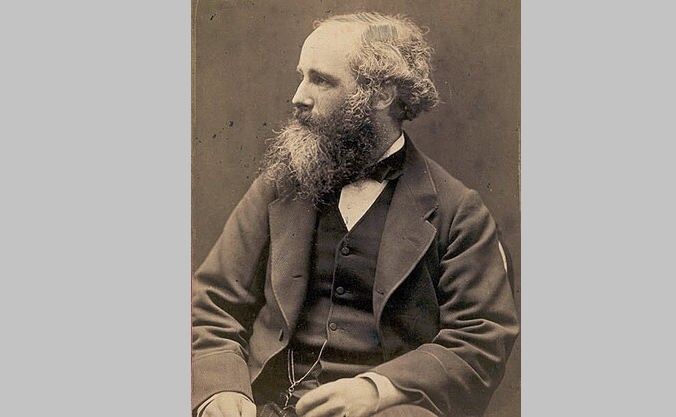
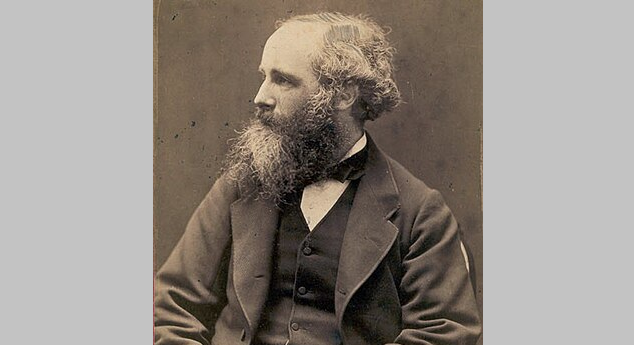
fixed timeline images

Changed region(s): [[0.2397, 0.0, 0.7792, 1.0]]

diff --git a/introduction.html b/introduction.html
@@ -181,9 +181,9 @@ header{position:sticky;top:0;z-index:5;display:flex;justify-content:space-betwee
     width: 100%;
     box-sizing: border-box;
     padding: 18px 5% 20px;
-    border: 1px solid rgba(65, 170, 220, 0.4);
+    border: 1px solid rgba(49, 151, 199, 0.4);
     border-radius: 14px;
-    background: rgba(201, 255, 232, 0.623);
+    background: rgba(205, 229, 236, 0.356);
     overflow: visible;
 }
 
@@ -315,7 +315,7 @@ header{position:sticky;top:0;z-index:5;display:flex;justify-content:space-betwee
 
 /* Card headings */
 .tl-card h3 {
-    font-size: .72rem;
+    font-size: .68rem;
     line-height: 1.15;
     margin: 0;
     color: var(--acc);
@@ -437,7 +437,7 @@ header{position:sticky;top:0;z-index:5;display:flex;justify-content:space-betwee
             <div class="tl-card" style="grid-column: 2;">
                 <h3>Telegraphy</h3>
                 <img src="images/morse_and_faraday.png" alt="Morse and Faraday">
-                <p>S. Morse develops practical electric telegraphy. <br>M. Faraday discovers EM induction.</p>
+                <p>S. Morse develops electric telegraphy. <br>M. Faraday discovers EM induction.</p>
             </div>
         </article>
 
@@ -449,7 +449,7 @@ header{position:sticky;top:0;z-index:5;display:flex;justify-content:space-betwee
             <div class="tl-card" style="grid-column: 3;">
                 <h3>Transatlantic cable, EM Theory</h3>
                 <img src="images/maxwell.png" alt="Maxwell">
-                <p>1st transatlantic telegraph cable completed. <br>J. Maxwell develops EM theory.</p>
+                <p>1st transatlantic telegraph cable. <br>J. Maxwell develops EM theory.</p>
             </div>
         </article>
 
@@ -476,7 +476,7 @@ header{position:sticky;top:0;z-index:5;display:flex;justify-content:space-betwee
                      alt="Fessenden and Armstrong"
                      onerror="this.style.display='none'">
                 <p>
-                    Transcontinental telephone service expands.
+                    Transcontinental telephone.
                      <br>R. Fessended & E. Armstrong develop AM and FM radio.
                 </p>
             </div>
@@ -494,9 +494,8 @@ header{position:sticky;top:0;z-index:5;display:flex;justify-content:space-betwee
                      alt="Nyquist"
                      onerror="this.style.display='none'">
                 <p>
-                    H. Nyquist formulates sampling theory
-                    and  conditions for transmition without
-                    intersymbol interference.
+                    H. Nyquist formulates theory for sampling
+                    & digital communications.
                 </p>
             </div>
         </article>
@@ -548,8 +547,7 @@ header{position:sticky;top:0;z-index:5;display:flex;justify-content:space-betwee
                      alt="Shannon"
                      onerror="this.style.display='none'">
                 <p>
-                    C. Shannon develops Information Theory, establishing
-                    a modern mathematical foundation for digital communication.
+                    C. Shannon develops Information Theory, a foundation for modern digital communication.
                 </p>
             </div>
         </article>
@@ -566,8 +564,8 @@ header{position:sticky;top:0;z-index:5;display:flex;justify-content:space-betwee
                      alt="Kilby and Maiman"
                      onerror="this.style.display='none'">
                 <p>
-                    J. Kilby builds the first working integrated circuit. <br>
-                        T. Maiman demonstrates the first working laser.
+                    J. Kilby builds 1st integrated circuit. <br>
+                        T. Maiman demonstrates 1st laser.
                 </p>
             </div>
         </article>
@@ -584,9 +582,7 @@ header{position:sticky;top:0;z-index:5;display:flex;justify-content:space-betwee
                      alt="Telstar"
                      onerror="this.style.display='none'">
                 <p>
-                    The first active communications satellite, Telstar 1,
-                    relays television, telephone, and data signals
-                    across the Atlantic.
+                    1st active communications satellite, Telstar 1.
                 </p>
             </div>
         </article>
@@ -603,9 +599,8 @@ header{position:sticky;top:0;z-index:5;display:flex;justify-content:space-betwee
                      alt="Global digital communication"
                      onerror="this.style.display='none'">
                 <p>
-                    Fiber optics, cable, LANs, cellular networks,
-                    satellites, and high-speed digital systems connect
-                    people and devices worldwide.
+                    Fiber optics, cable, LANs, cellular,
+                    satellite, etc. connecting devices worldwide.
                 </p>
             </div>
         </article>
